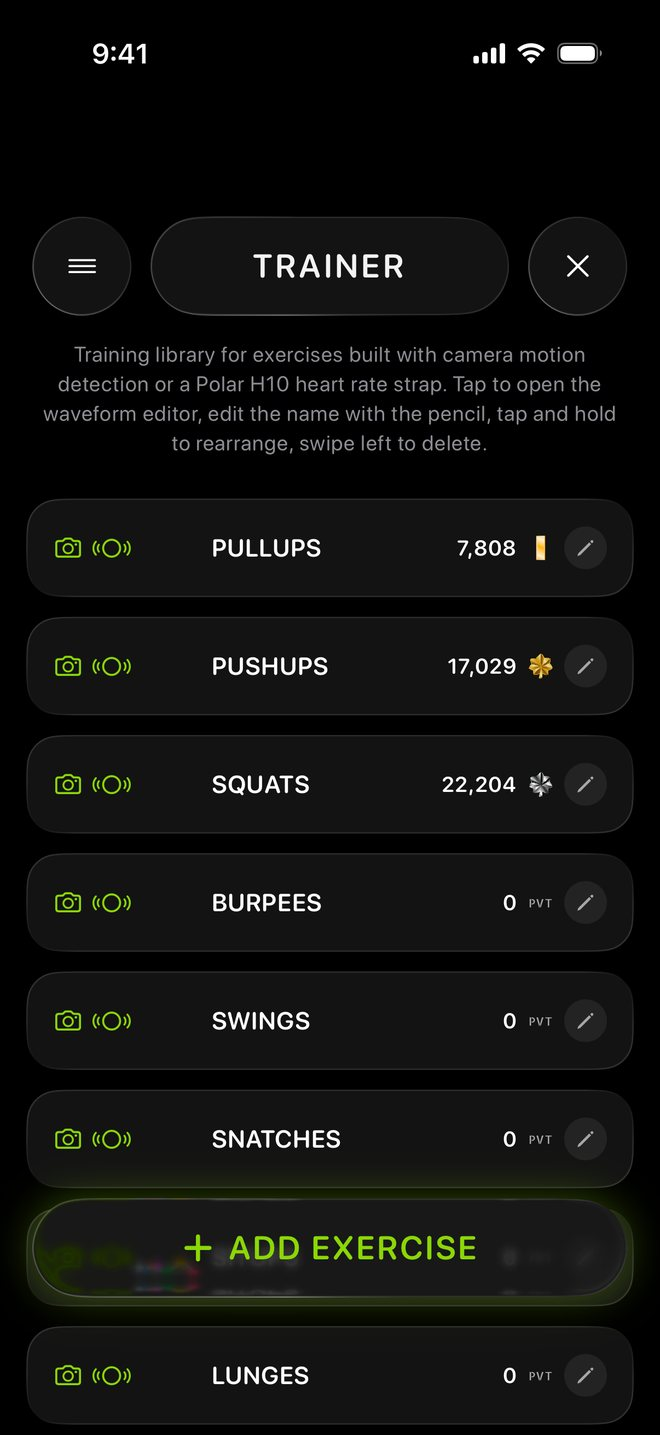
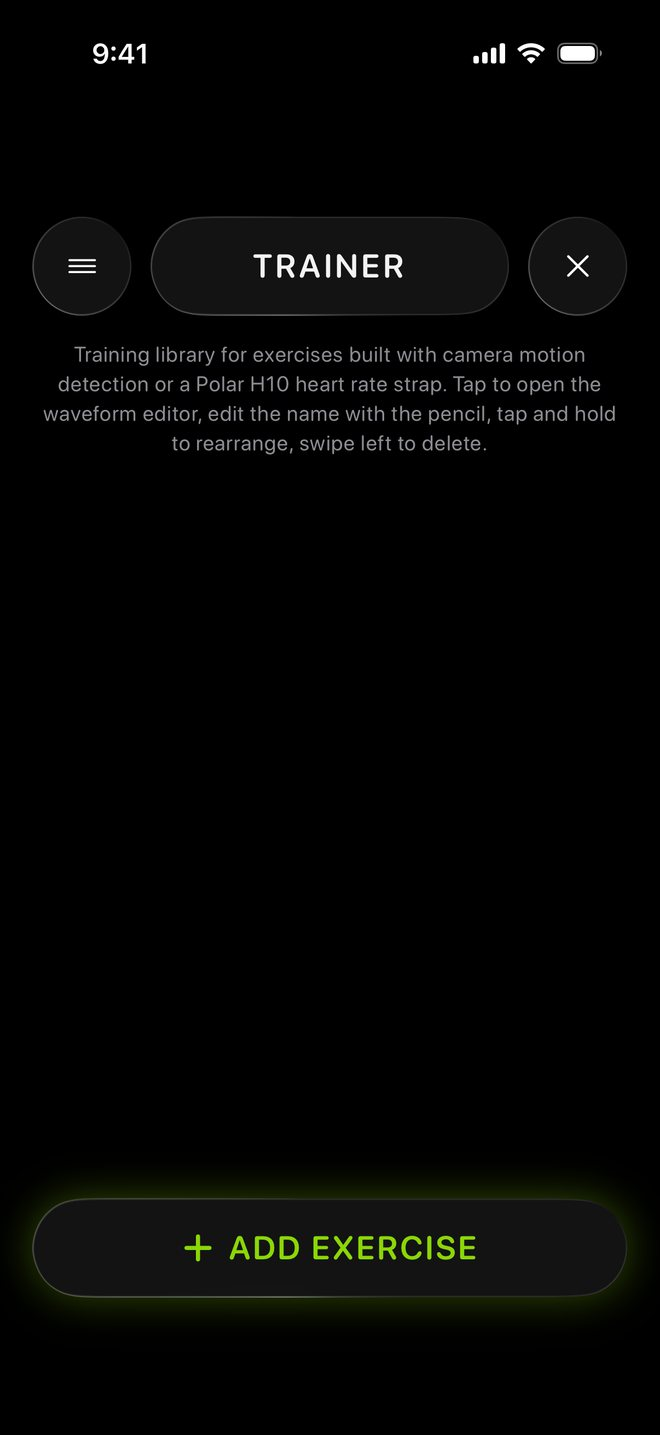
v1.19.0 [feat]: Trainer card shows app 1.61's list: fades above ADD EXERCISE, slides to show all 9 exercises
Trainer pictures retaken on app main (1.61.2, #358): one card per name, both symbols lit, the list fading out above the floating ADD EXERCISE glass. With scripts the whole list scrolls in the app's list window while the card is in view. Training copy now says 20 seconds of your own reps; support FAQ covers Reinstall built-in exercises.

diff --git a/index.html b/index.html
@@ -21,7 +21,7 @@
   <link rel="canonical" href="https://ranktime.app/">
   <link rel="icon" type="image/png" href="/logo.png">
   <link rel="preload" href="/assets/AllertaStencil.ttf" as="font" type="font/ttf" crossorigin>
-  <link rel="stylesheet" href="/styles.css?v=21">
+  <link rel="stylesheet" href="/styles.css?v=22">
   <script>document.documentElement.classList.add("js");</script>
   <script type="application/ld+json">
   {
@@ -86,7 +86,7 @@
         "name": "How does RankTime count reps?",
         "acceptedAnswer": {
           "@type": "Answer",
-          "text": "With the iPhone camera, on the phone itself. Nine exercises count straight away, from the front, the side or behind, with the phone on the floor or a tripod: push-ups, pull-ups, squats, burpees, kettlebell swings, snatches, sit-ups, lunges and jumping jacks. Teach it any other exercise with 3 of your own reps. With a Polar H10 chest strap it can count from the strap instead."
+          "text": "With the iPhone camera, on the phone itself. Nine exercises count straight away, from the front, the side or behind, with the phone on the floor or a tripod: push-ups, pull-ups, squats, burpees, kettlebell swings, snatches, sit-ups, lunges and jumping jacks. Teach it any other exercise with 20 seconds of your own reps. With a Polar H10 chest strap it can count from the strap instead."
         }
       },
       {
@@ -298,23 +298,31 @@
 
         <article class="feat reveal" style="--i:1" id="featTrainer">
           <figure class="device"><div class="scr">
-            <img src="/assets/screens/trainer.jpg" width="660" height="1435" loading="lazy" alt="RankTime Trainer: pullups, pushups, squats, burpees, swings, snatches and lunges ready to count with the camera, each with a skeleton doing the move, lifetime reps and rank">
-            <!-- Live copy: the same screen without its skeletons, and the app's skeletons moving on top (#figData) -->
+            <img src="/assets/screens/trainer.jpg" width="660" height="1435" loading="lazy" alt="RankTime Trainer: pullups, pushups, squats, burpees, swings and snatches on cards, each with its camera and Polar symbols lit, a skeleton doing the move, lifetime reps and rank; the list fades out above the ADD EXERCISE button">
+            <!-- Live copy: the screen without its list, the whole list (9 cards, no skeletons) scrolling in the
+                 app's list window, and the app's skeletons moving on top (#figData) -->
             <div class="tr-live" id="trLive" hidden aria-hidden="true">
               <img src="/assets/screens/trainer-live.jpg" width="660" height="1435" loading="lazy" alt="">
-              <canvas class="fig" data-look="both" data-fig="PULLUPS" data-pt="42" style="left:20.100%;top:35.675%"></canvas>
-              <canvas class="fig" data-look="both" data-fig="PUSHUPS" data-pt="42" style="left:20.100%;top:43.913%"></canvas>
-              <canvas class="fig" data-look="both" data-fig="SQUATS" data-pt="42" style="left:20.100%;top:52.151%"></canvas>
-              <canvas class="fig" data-look="both" data-fig="BURPEES" data-pt="42" style="left:20.100%;top:60.389%"></canvas>
-              <canvas class="fig" data-look="both" data-fig="SWINGS" data-pt="42" style="left:20.100%;top:68.627%"></canvas>
-              <canvas class="fig" data-look="both" data-fig="SNATCHES" data-pt="42" style="left:20.100%;top:76.865%"></canvas>
-              <canvas class="fig" data-look="both" data-fig="LUNGES" data-pt="42" style="left:20.100%;top:93.341%"></canvas>
+              <div class="tr-list">
+                <div class="tr-strip">
+                  <img src="/assets/screens/trainer-list.jpg" width="660" height="1054" loading="lazy" alt="">
+                  <canvas class="fig" data-look="both" data-fig="PULLUPS" data-pt="42" style="left:20.100%;top:2.181%"></canvas>
+                  <canvas class="fig" data-look="both" data-fig="PUSHUPS" data-pt="42" style="left:20.100%;top:13.396%"></canvas>
+                  <canvas class="fig" data-look="both" data-fig="SQUATS" data-pt="42" style="left:20.100%;top:24.611%"></canvas>
+                  <canvas class="fig" data-look="both" data-fig="BURPEES" data-pt="42" style="left:20.100%;top:35.826%"></canvas>
+                  <canvas class="fig" data-look="both" data-fig="SWINGS" data-pt="42" style="left:20.100%;top:47.040%"></canvas>
+                  <canvas class="fig" data-look="both" data-fig="SNATCHES" data-pt="42" style="left:20.100%;top:58.255%"></canvas>
+                  <canvas class="fig" data-look="both" data-fig="SITUPS" data-pt="42" style="left:20.100%;top:69.470%"></canvas>
+                  <canvas class="fig" data-look="both" data-fig="LUNGES" data-pt="42" style="left:20.100%;top:80.685%"></canvas>
+                  <canvas class="fig" data-look="both" data-fig="JUMPING JACKS" data-pt="42" style="left:20.100%;top:91.900%"></canvas>
+                </div>
+              </div>
             </div>
-            <span class="hl" style="--x:19.2%;--y:35.2%;--w:12%;--h:47%;--r:12px"></span>
+            <span class="hl" style="--x:2.5%;--y:33.6%;--w:95%;--h:49.2%;--r:20px"></span>
           </div></figure>
           <div class="feat-copy">
             <h3><span class="dot">&rsaquo;</span> Camera rep counting</h3>
-            <p>Nine exercises count straight away, from the front, the side or behind, with the phone on the floor or a tripod. Teach it any other with 3 of your own reps. Only the exercise you picked counts, or let a Polar H10 count it instead.</p>
+            <p>Nine exercises count straight away, from the front, the side or behind, with the phone on the floor or a tripod. Teach it any other with 20 seconds of your own reps. Only the exercise you picked counts, or let a Polar H10 count it instead.</p>
           </div>
         </article>
 
@@ -656,7 +664,7 @@
           </details>
           <details>
             <summary>How does RankTime count reps?</summary>
-            <p>With the iPhone camera, on the phone itself. Nine exercises count straight away, from the front, the side or behind, with the phone on the floor or a tripod: push-ups, pull-ups, squats, burpees, kettlebell swings, snatches, sit-ups, lunges and jumping jacks. Teach it any other exercise with 3 of your own reps. With a Polar H10 chest strap it can count from the strap instead.</p>
+            <p>With the iPhone camera, on the phone itself. Nine exercises count straight away, from the front, the side or behind, with the phone on the floor or a tripod: push-ups, pull-ups, squats, burpees, kettlebell swings, snatches, sit-ups, lunges and jumping jacks. Teach it any other exercise with 20 seconds of your own reps. With a Polar H10 chest strap it can count from the strap instead.</p>
           </details>
           <details>
             <summary>Can I do Murph with both runs?</summary>
@@ -2523,7 +2531,7 @@
         camera: ["Camera", "With the camera on, the app records your set with the timer and reps burned into the video and counts reps by watching you."],
         record: ["Recording", "The recording keeps the live bar and the RankTime mark, ready to share."],
         done: ["Workout complete! Great job!", "In the app this lands in Analytics, adds to your rank and counts toward this week's medal."],
-        trainer: ["The Trainer", "Nine exercises come ready to count. Teach it any other with 3 of your own reps."],
+        trainer: ["The Trainer", "Nine exercises come ready to count. Teach it any other with 20 seconds of your own reps."],
         analytics: ["Analytics", "Every workout you finish lands here, charted and analyzed."],
         progress: ["Progress", "Track your body over time with guided photos and stats."],
         settings: ["Settings", "Connections, notifications, Apple Health, heart rate zones and sound."]

diff --git a/support/index.html b/support/index.html
@@ -17,7 +17,7 @@
   <meta name="twitter:image" content="https://ranktime.app/og.png?v=3">
   <link rel="canonical" href="https://ranktime.app/support/">
   <link rel="icon" type="image/png" href="/logo.png">
-  <link rel="stylesheet" href="/styles.css?v=21">
+  <link rel="stylesheet" href="/styles.css?v=22">
 </head>
 <body>
   <div class="ambient" aria-hidden="true"></div>
@@ -57,11 +57,15 @@
       </div>
       <div class="qa">
         <h3>How does rep counting work?</h3>
-        <p>The camera follows your body with Apple Vision body pose tracking, on the phone itself. Nothing is uploaded. Nine exercises count straight away: push-ups, pull-ups, squats, burpees, kettlebell swings, snatches, sit-ups, lunges and jumping jacks. Teach it any other exercise in the Trainer with 3 of your own reps. With a Polar H10 strap, you can pick the strap to count an exercise instead.</p>
+        <p>The camera follows your body with Apple Vision body pose tracking, on the phone itself. Nothing is uploaded. Nine exercises count straight away: push-ups, pull-ups, squats, burpees, kettlebell swings, snatches, sit-ups, lunges and jumping jacks. Teach it any other exercise in the Trainer with 20 seconds of your own reps. With a Polar H10 strap, you can pick the strap to count an exercise instead.</p>
       </div>
       <div class="qa">
         <h3>Where do I put the phone?</h3>
         <p>On the floor or a tripod, where the camera sees all of you. Front, side or behind all work, and you do not need to line anything up first. Each exercise in the Trainer says which side suits it best. The camera follows one person, so train with nobody else in the picture.</p>
+      </div>
+      <div class="qa">
+        <h3>I deleted a built-in exercise. Can I get it back?</h3>
+        <p>Yes. Open Settings and tap Reinstall built-in exercises. Every built-in you deleted comes back, and your reps and workouts stay with it.</p>
       </div>
       <div class="qa">
         <h3>What if I do a different exercise?</h3>

diff --git a/styles.css b/styles.css
@@ -592,7 +592,15 @@ button { font: inherit; color: inherit; background: none; border: 0; }
 .device .scr img { display: block; width: 100%; height: auto; }
 /* the Trainer card's live skeletons (#352): the screen without them, and a canvas in each 42 x 44 pt slot */
 .tr-live { position: absolute; inset: 0; }
-.tr-live .fig { position: absolute; width: calc(42 / 402 * 100%); height: calc(44 / 874 * 100%); }
+/* #358: the list window runs from 297.67 pt to 720 pt and fades out over its last 44 pt, above the ADD
+   EXERCISE glass; the whole list (642 pt, 9 cards) scrolls in it by the app's 281.67 pt and back */
+.tr-list { position: absolute; left: 0; right: 0; top: calc(297.67 / 874 * 100%); height: calc(422.33 / 874 * 100%); overflow: hidden; -webkit-mask-image: linear-gradient(#000 89.58%, transparent); mask-image: linear-gradient(#000 89.58%, transparent); }
+.tr-strip { position: relative; }
+.tr-live .fig { position: absolute; width: calc(42 / 402 * 100%); height: calc(44 / 642 * 100%); }
+@media (prefers-reduced-motion: no-preference) {
+  .reveal.in .tr-strip { animation: tr-scroll 14s ease-in-out 2.2s infinite; }
+}
+@keyframes tr-scroll { 0%, 22% { transform: none; } 46%, 72% { transform: translateY(-43.874%); } 96%, 100% { transform: none; } }
 /* Landscape: the same phone turned on its side, so both radii swap axes */
 .device.land { padding: 1.52%; border-radius: 7.63% / 16%; }
 .device.land .scr { border-radius: 6.3% / 13.7%; }

diff --git a/guides/hiit-intervals/index.html b/guides/hiit-intervals/index.html
@@ -17,7 +17,7 @@
   <meta name="twitter:image" content="https://ranktime.app/og.png?v=3">
   <link rel="canonical" href="https://ranktime.app/guides/hiit-intervals/">
   <link rel="icon" type="image/png" href="/logo.png">
-  <link rel="stylesheet" href="/styles.css?v=21">
+  <link rel="stylesheet" href="/styles.css?v=22">
   <script type="application/ld+json">
   {
     "@context": "https://schema.org",
@@ -146,7 +146,7 @@
 
     <ol>
       <li><strong>Set work, rest and rounds.</strong> A work interval can be up to 10 minutes long, so the same screen handles a 20 second Tabata and a 4 minute 4x4.</li>
-      <li><strong>Pick your exercises.</strong> Tap the exercises circle, then an exercise, and tick up to 3. Nine exercises are counted by the camera out of the box, and the Trainer learns any other movement from 3 of your own reps.</li>
+      <li><strong>Pick your exercises.</strong> Tap the exercises circle, then an exercise, and tick up to 3. Nine exercises are counted by the camera out of the box, and the Trainer learns any other movement from 20 seconds of your own reps.</li>
       <li><strong>Save it.</strong> Save the setup as a new workout with its own name. It gets its own page, so you swipe up or down to switch between it, TABATA and EMOM.</li>
       <li><strong>Press play.</strong> Lime means work, grey means rest, and the sound and vibration cues mean you do not need to look at all.</li>
     </ol>

diff --git a/guides/100-pushups-a-day/index.html b/guides/100-pushups-a-day/index.html
@@ -17,7 +17,7 @@
   <meta name="twitter:image" content="https://ranktime.app/og.png?v=3">
   <link rel="canonical" href="https://ranktime.app/guides/100-pushups-a-day/">
   <link rel="icon" type="image/png" href="/logo.png">
-  <link rel="stylesheet" href="/styles.css?v=21">
+  <link rel="stylesheet" href="/styles.css?v=22">
   <script type="application/ld+json">
   {
     "@context": "https://schema.org",

diff --git a/guides/tabata-workout/index.html b/guides/tabata-workout/index.html
@@ -17,7 +17,7 @@
   <meta name="twitter:image" content="https://ranktime.app/og.png?v=3">
   <link rel="canonical" href="https://ranktime.app/guides/tabata-workout/">
   <link rel="icon" type="image/png" href="/logo.png">
-  <link rel="stylesheet" href="/styles.css?v=21">
+  <link rel="stylesheet" href="/styles.css?v=22">
   <script type="application/ld+json">
   {
     "@context": "https://schema.org",

diff --git a/guides/amrap-workout/index.html b/guides/amrap-workout/index.html
@@ -17,7 +17,7 @@
   <meta name="twitter:image" content="https://ranktime.app/og.png?v=3">
   <link rel="canonical" href="https://ranktime.app/guides/amrap-workout/">
   <link rel="icon" type="image/png" href="/logo.png">
-  <link rel="stylesheet" href="/styles.css?v=21">
+  <link rel="stylesheet" href="/styles.css?v=22">
   <script type="application/ld+json">
   {
     "@context": "https://schema.org",

diff --git a/guides/cindy-workout/index.html b/guides/cindy-workout/index.html
@@ -17,7 +17,7 @@
   <meta name="twitter:image" content="https://ranktime.app/og.png?v=3">
   <link rel="canonical" href="https://ranktime.app/guides/cindy-workout/">
   <link rel="icon" type="image/png" href="/logo.png">
-  <link rel="stylesheet" href="/styles.css?v=21">
+  <link rel="stylesheet" href="/styles.css?v=22">
   <script type="application/ld+json">
   {
     "@context": "https://schema.org",

diff --git a/guides/murph-workout/index.html b/guides/murph-workout/index.html
@@ -17,7 +17,7 @@
   <meta name="twitter:image" content="https://ranktime.app/og.png?v=3">
   <link rel="canonical" href="https://ranktime.app/guides/murph-workout/">
   <link rel="icon" type="image/png" href="/logo.png">
-  <link rel="stylesheet" href="/styles.css?v=21">
+  <link rel="stylesheet" href="/styles.css?v=22">
   <script type="application/ld+json">
   {
     "@context": "https://schema.org",

diff --git a/guides/emom-workout/index.html b/guides/emom-workout/index.html
@@ -17,7 +17,7 @@
   <meta name="twitter:image" content="https://ranktime.app/og.png?v=3">
   <link rel="canonical" href="https://ranktime.app/guides/emom-workout/">
   <link rel="icon" type="image/png" href="/logo.png">
-  <link rel="stylesheet" href="/styles.css?v=21">
+  <link rel="stylesheet" href="/styles.css?v=22">
   <script type="application/ld+json">
   {
     "@context": "https://schema.org",

diff --git a/whats-next/index.html b/whats-next/index.html
@@ -17,7 +17,7 @@
   <meta name="twitter:image" content="https://ranktime.app/og.png?v=3">
   <link rel="canonical" href="https://ranktime.app/whats-next/">
   <link rel="icon" type="image/png" href="/logo.png">
-  <link rel="stylesheet" href="/styles.css?v=21">
+  <link rel="stylesheet" href="/styles.css?v=22">
 </head>
 <body>
   <div class="ambient" aria-hidden="true"></div>

diff --git a/whats-new/index.html b/whats-new/index.html
@@ -17,7 +17,7 @@
   <meta name="twitter:image" content="https://ranktime.app/og.png?v=3">
   <link rel="canonical" href="https://ranktime.app/whats-new/">
   <link rel="icon" type="image/png" href="/logo.png">
-  <link rel="stylesheet" href="/styles.css?v=21">
+  <link rel="stylesheet" href="/styles.css?v=22">
 </head>
 <body>
   <div class="ambient" aria-hidden="true"></div>
